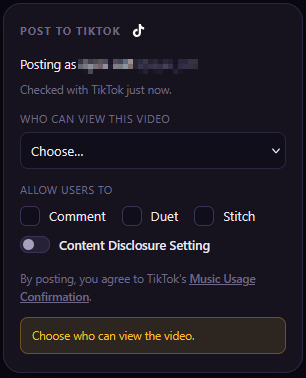
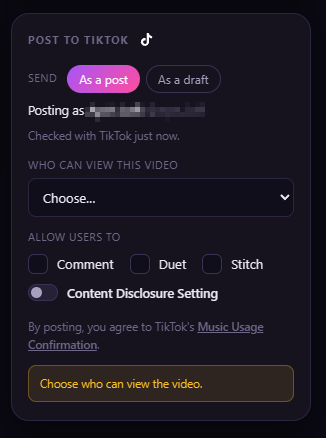
Site: show the Post to TikTok box with its draft option
The overview's screenshot predated "Send: As a post / As a draft". The
new one has the account name and handle pixelated, like the others.

diff --git a/site/index.html b/site/index.html
@@ -207,7 +207,7 @@
         account. Each installation uses a TikTok developer app of its own, so its client key and secret stay in
         its own configuration.</p>
       </div>
-      <img src="img/tiktok-box.png" alt="The Post to TikTok box: account, audience, interactions, disclosure and declaration">
+      <img src="img/tiktok-box.png" alt="The Post to TikTok box: send as a post or as a draft, account, audience, interactions, disclosure and declaration">
     </div>
   </section>
 
